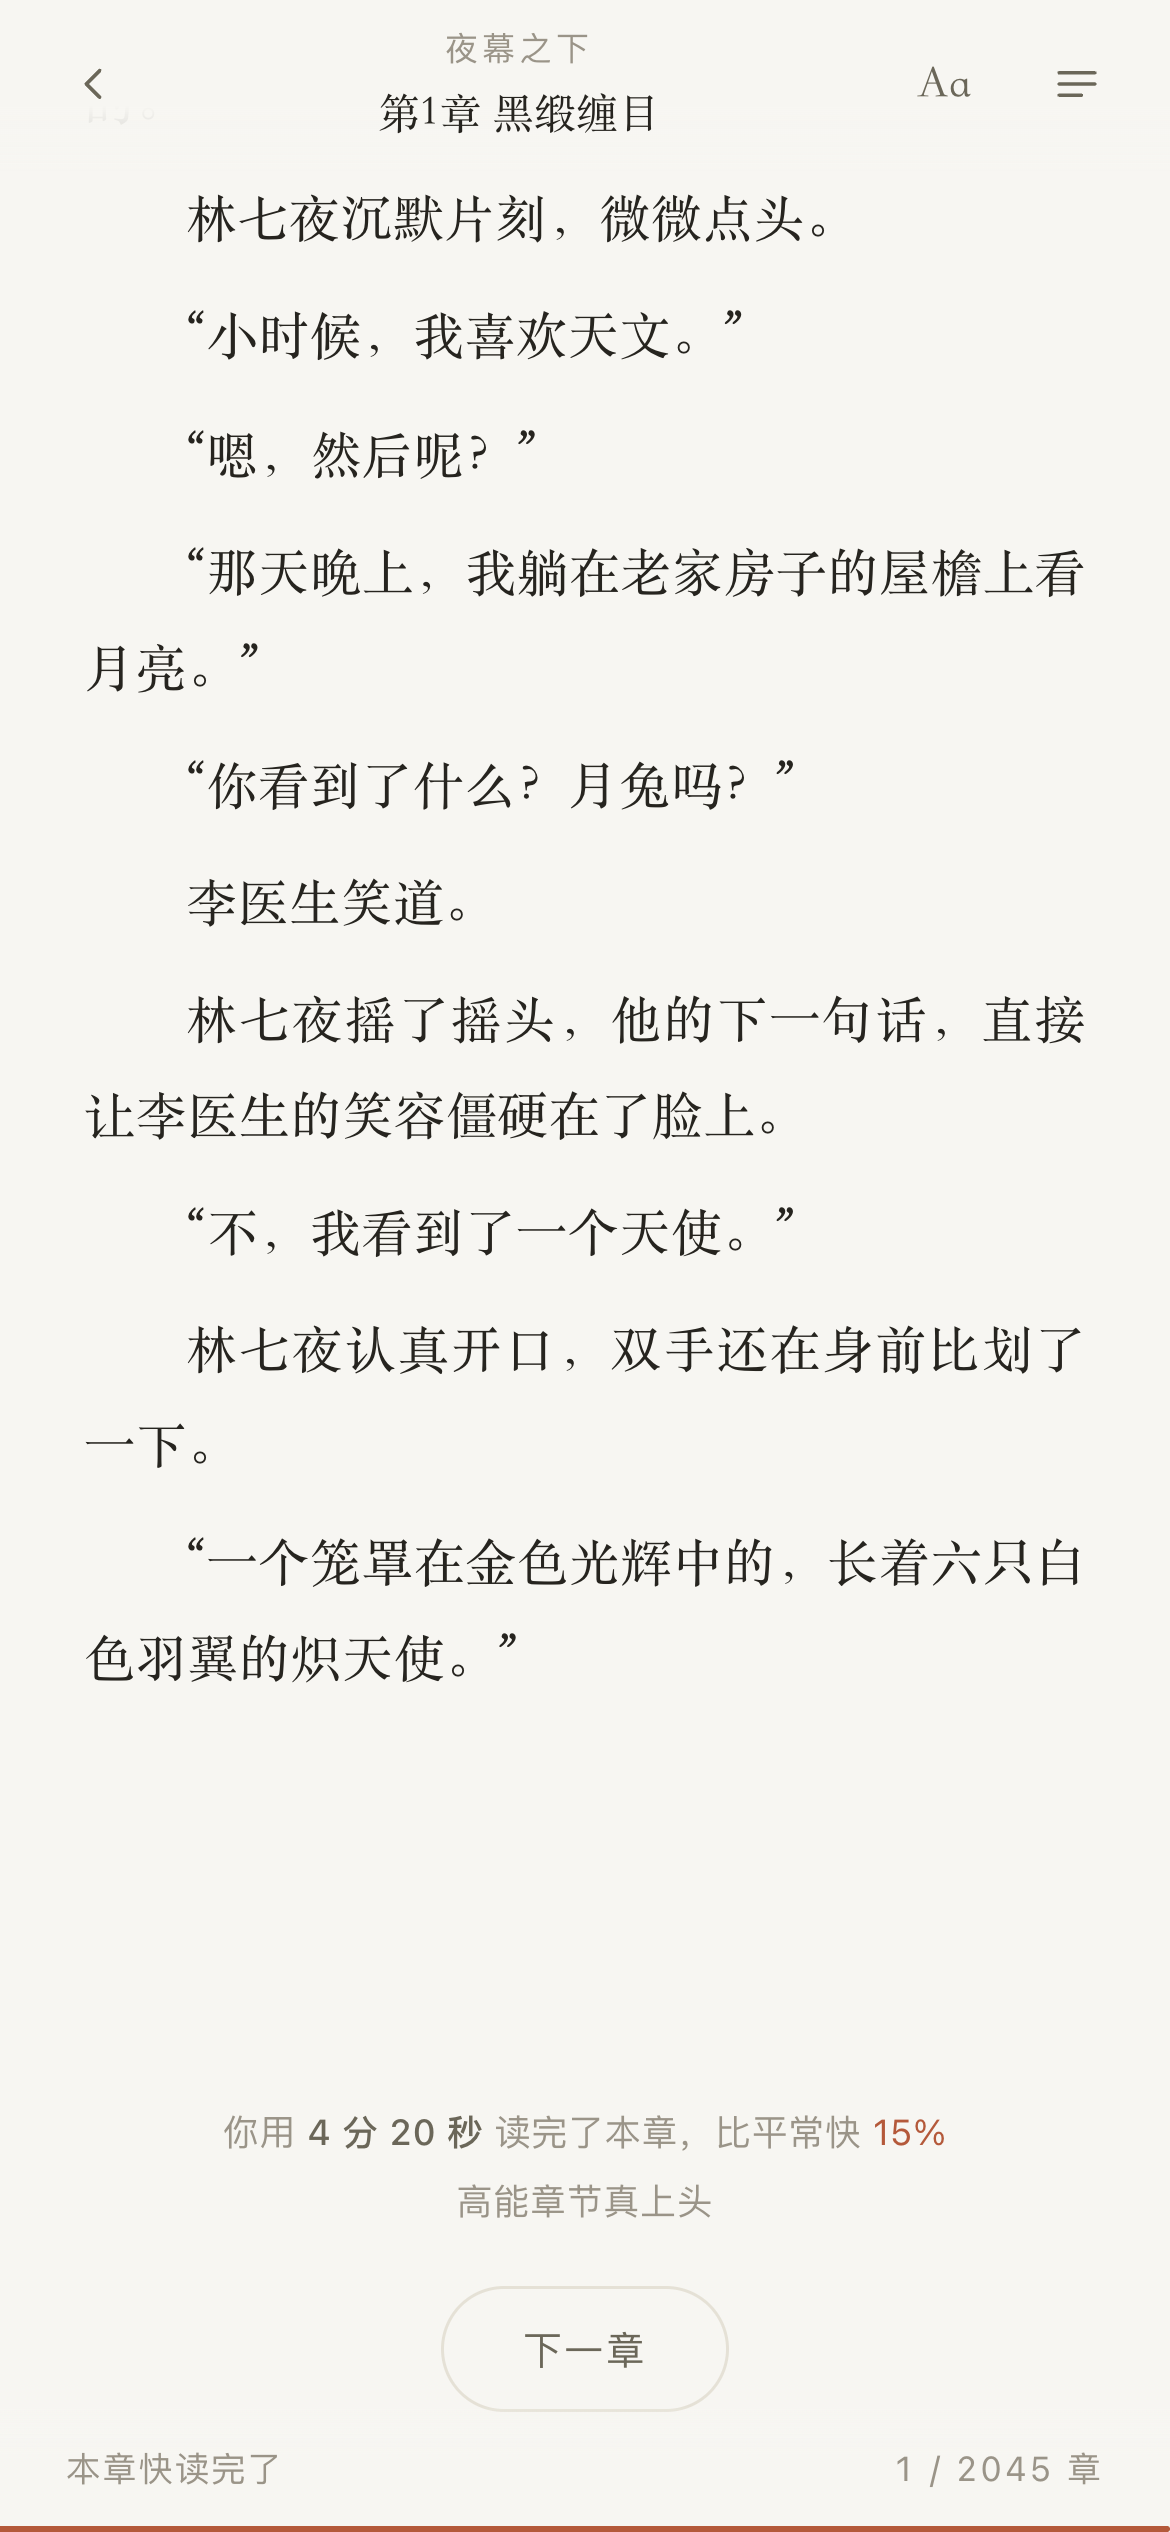
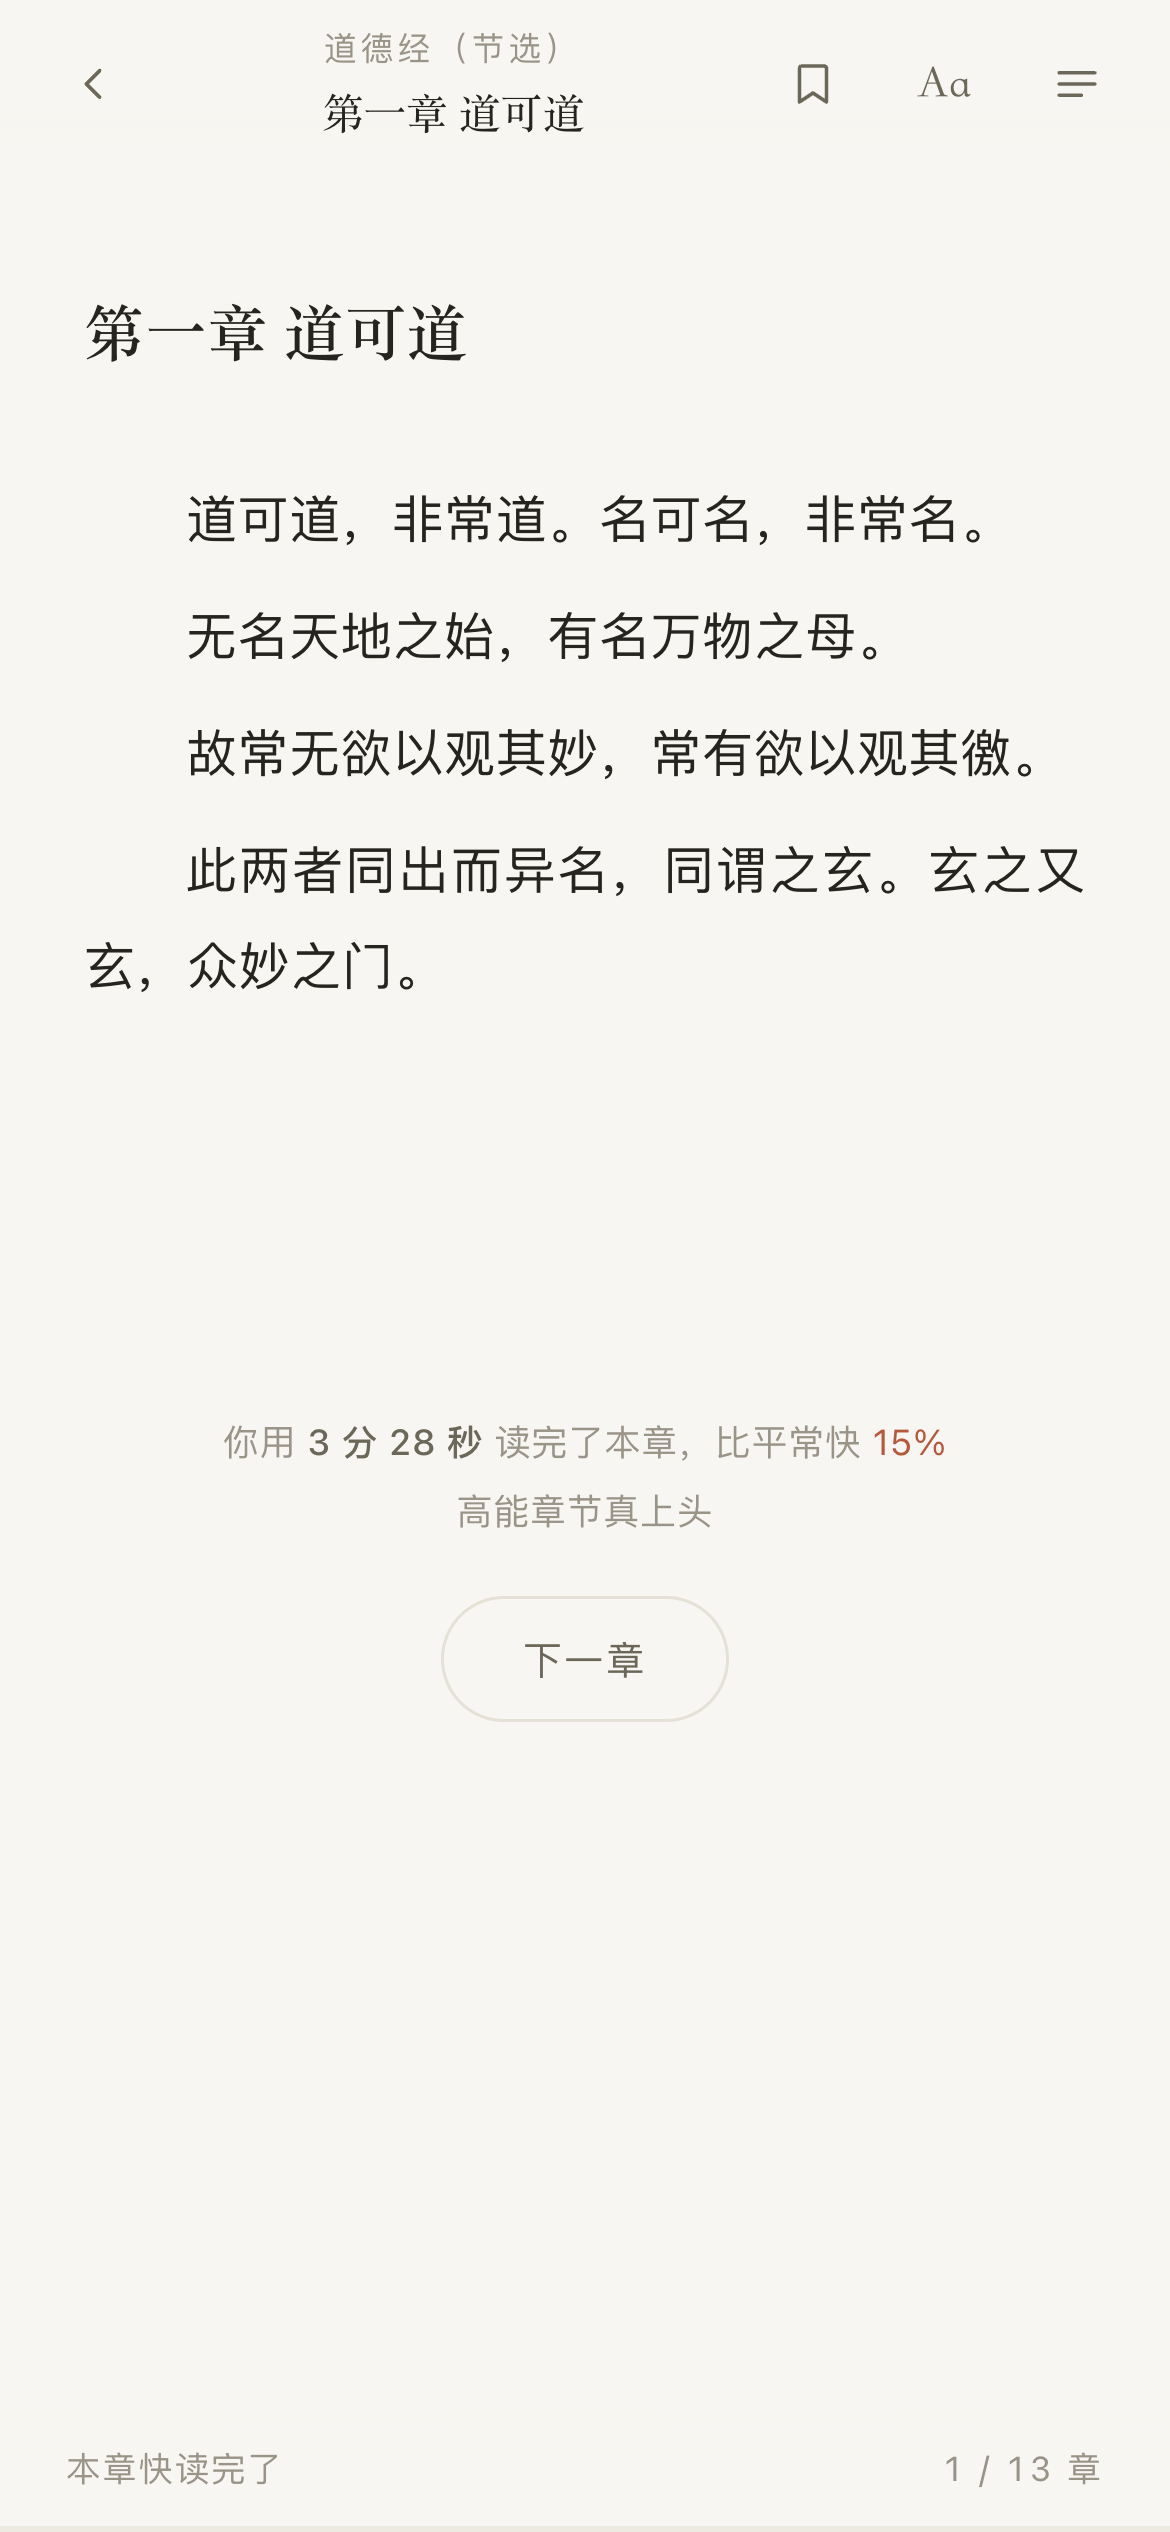
docs: 截图全部换成公版示例《道德经》，移除版权正文残留

diff --git a/README.md b/README.md
@@ -73,6 +73,8 @@ Android 6.0+ 可直接安装，也可以直接在浏览器里打开网页版。
 |---|---|---|
 | ![shelf](app/apk/preview/shelf.png) | ![read](app/apk/preview/read.png) | ![night](app/apk/preview/night.png) |
 
+> 截图里读的都是内置的公版示例《道德经》节选。
+
 | 目录耗时 | 章末小结 | 阅读时光 |
 |---|---|---|
 | ![toc](app/apk/preview/toc-time.png) | ![endnote](app/apk/preview/endnote.png) | ![stats](app/apk/preview/stats.png) |
